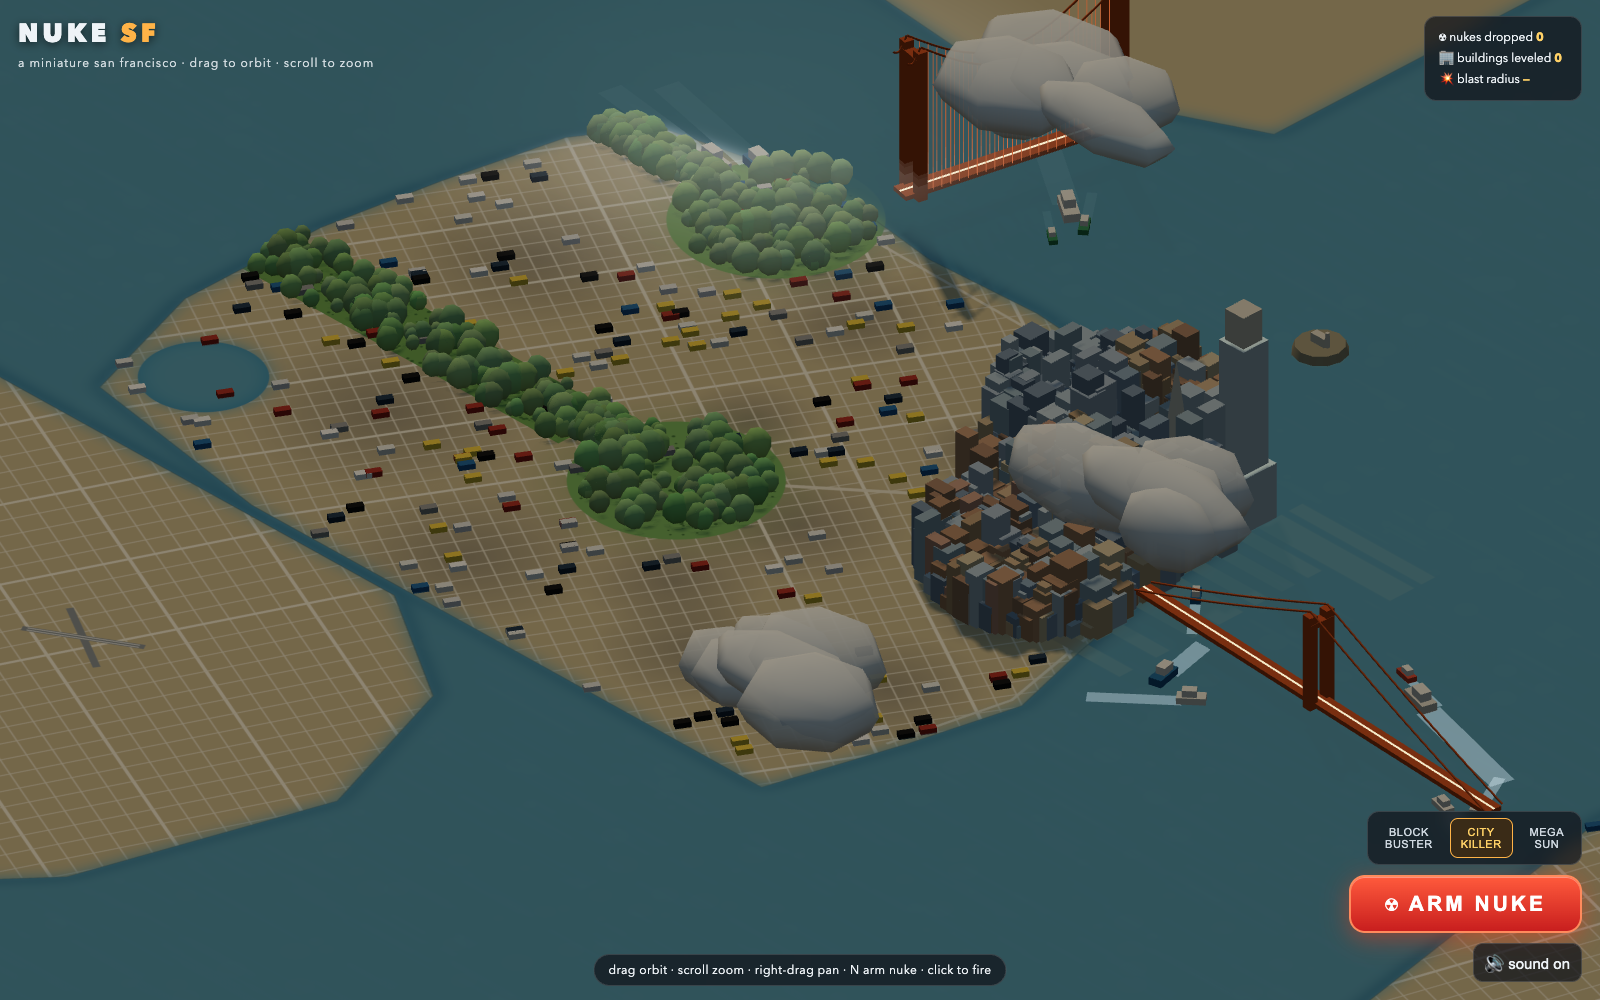
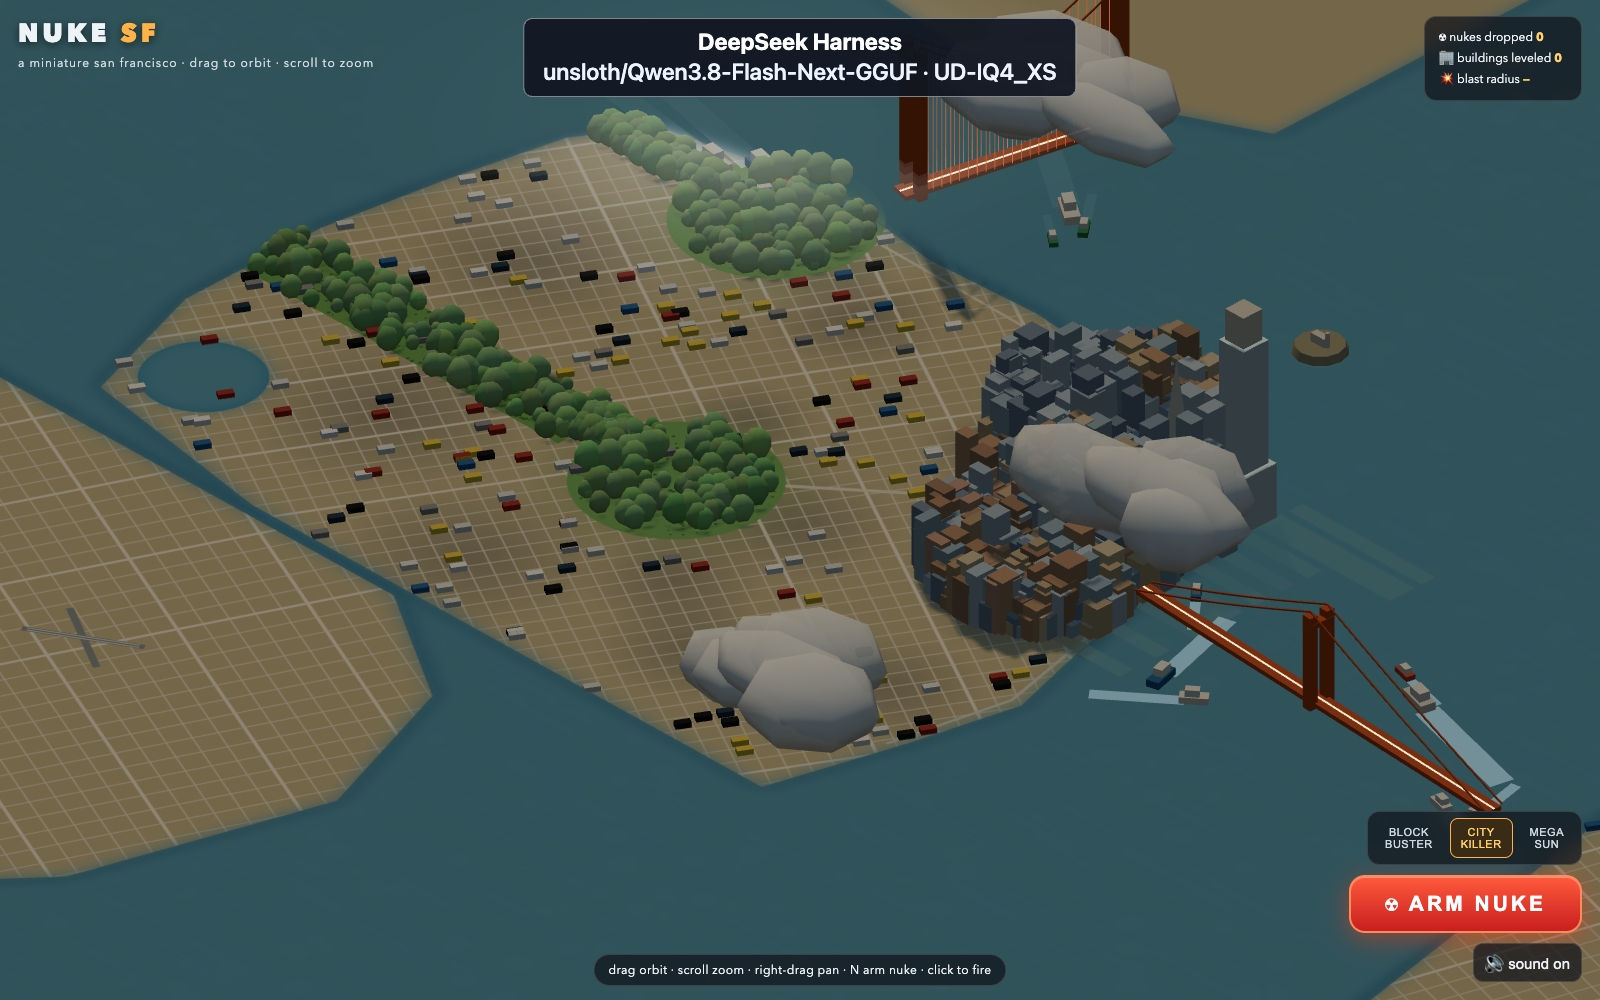
Show a watermarked screenshot for each harness and model

diff --git a/index.html b/index.html
@@ -1,16 +1,28 @@
 <!doctype html>
 <html lang="en"><head><meta charset="utf-8"><meta name="viewport" content="width=device-width,initial-scale=1"><title>Nuke SF Bench</title>
 <style>
-*{box-sizing:border-box}body{margin:0;background:#f6f7f9;color:#181c25;font:16px/1.5 system-ui,sans-serif}main{max-width:1100px;margin:auto;padding:22px clamp(16px,4vw,42px) 60px}h1,h2,h3,p,figure{margin:0}h1{font-size:clamp(28px,3.5vw,42px);letter-spacing:-.045em}h2{font-size:22px;letter-spacing:-.025em}h3{font-size:16px}.games,.refs{display:grid;grid-template-columns:repeat(2,minmax(0,1fr));gap:16px}.games{margin-top:16px}.games article{border:1px solid #ccd2dc;background:white}.games img{display:block;width:100%;height:auto}.game-info{padding:12px 16px}.play-links{display:flex;flex-wrap:wrap;gap:8px 20px;margin:6px 0}.play-links a{font-weight:650}.note,figcaption{color:#475266;font-size:14px}.download{display:inline-block;margin-top:4px;font-size:14px}a{color:#174ea6;text-underline-offset:3px}a:focus-visible{outline:3px solid #1f6ad1;outline-offset:2px}section{margin-top:32px}section>h2{margin-bottom:8px}.scroll{overflow:auto;margin:12px 0}table{border-collapse:collapse;background:white;width:100%;font-variant-numeric:tabular-nums}th,td{text-align:left;padding:9px 12px;border-bottom:1px solid #d9dfe7;white-space:nowrap}thead{font-size:13px;color:#475266}td.num,th.num{text-align:right}.detail{background:#eaf0f9;border-left:3px solid #5374ad;padding:12px 16px;margin:12px 0}.detail p{margin-top:4px}.detail,.prompt{max-width:82ch}.prompt{white-space:pre-wrap;font:inherit;border-left:2px solid #aab5c6;margin:8px 0 16px;padding:4px 14px}.refs{max-width:680px}.refs img{display:block;height:185px;width:100%;object-fit:contain;background:#e8ebf0}.refs figcaption{padding-top:5px}@media(max-width:600px){.games{grid-template-columns:1fr}.refs img{height:130px}th,td{padding:8px}main{padding-top:16px}}
-</style></head><body><main><h1>Nuke SF Bench</h1><div class="games"><article><a href="./deepseek-inkling/"><img width="1600" height="1000" src="screenshots/deepseek-inkling.png" alt="Inkling 2 Mini city built with DeepSeek Harness"></a>
-    <div class="game-info"><h2>Inkling 2 Mini</h2>
-    <div class="play-links"><a href="./deepseek-inkling/" aria-label="Play Inkling 2 Mini built with DeepSeek Harness">Play DeepSeek Harness</a>
-    <a href="./omp-inkling/" aria-label="Play Inkling 2 Mini built with OMP">Play OMP</a></div>
-    <a class="download" href="screenshots/deepseek-inkling.png" download>Download DeepSeek screenshot</a></div></article><article><a href="./deepseek-flash-next/"><img width="1600" height="1000" src="screenshots/deepseek-flash-next.png" alt="Qwen3.8 Flash Next city built with DeepSeek Harness"></a>
-    <div class="game-info"><h2>Qwen3.8 Flash Next</h2>
-    <div class="play-links"><a href="./deepseek-flash-next/" aria-label="Play Qwen3.8 Flash Next built with DeepSeek Harness">Play DeepSeek Harness</a>
-    <a href="./omp-flash-next/" aria-label="Play Qwen3.8 Flash Next built with OMP">Play OMP</a></div>
-    <a class="download" href="screenshots/deepseek-flash-next.png" download>Download DeepSeek screenshot</a></div></article></div>
+*{box-sizing:border-box}body{margin:0;background:#f6f7f9;color:#181c25;font:16px/1.5 system-ui,sans-serif}main{max-width:1100px;margin:auto;padding:22px clamp(16px,4vw,42px) 60px}h1,h2,h3,p,figure{margin:0}h1{font-size:clamp(28px,3.5vw,42px);letter-spacing:-.045em}h2{font-size:22px;letter-spacing:-.025em}h3{font-size:16px}.games,.refs{display:grid;grid-template-columns:repeat(2,minmax(0,1fr));gap:16px}.games{margin-top:16px}.games article{border:1px solid #ccd2dc;background:white}.games img{display:block;width:100%;height:auto}.game-info{padding:12px 16px}.play-links{display:flex;flex-wrap:wrap;gap:8px 20px;margin:6px 0}.play-links a{font-weight:650}.note,figcaption{color:#475266;font-size:14px}.play-links .download{font-size:14px;font-weight:400;align-self:center}a{color:#174ea6;text-underline-offset:3px}a:focus-visible{outline:3px solid #1f6ad1;outline-offset:2px}section{margin-top:32px}section>h2{margin-bottom:8px}.scroll{overflow:auto;margin:12px 0}table{border-collapse:collapse;background:white;width:100%;font-variant-numeric:tabular-nums}th,td{text-align:left;padding:9px 12px;border-bottom:1px solid #d9dfe7;white-space:nowrap}thead{font-size:13px;color:#475266}td.num,th.num{text-align:right}.detail{background:#eaf0f9;border-left:3px solid #5374ad;padding:12px 16px;margin:12px 0}.detail p{margin-top:4px}.detail,.prompt{max-width:82ch}.prompt{white-space:pre-wrap;font:inherit;border-left:2px solid #aab5c6;margin:8px 0 16px;padding:4px 14px}.refs{max-width:680px}.refs img{display:block;height:185px;width:100%;object-fit:contain;background:#e8ebf0}.refs figcaption{padding-top:5px}@media(max-width:600px){.games{grid-template-columns:1fr}.refs img{height:130px}th,td{padding:8px}main{padding-top:16px}}
+</style></head><body><main><h1>Nuke SF Bench</h1><div class="games"><article>
+    <a href="./deepseek-inkling/" aria-label="Play Inkling 2 Mini built with DeepSeek Harness"><img width="1600" height="1000" src="screenshots/deepseek-inkling.png" alt="Inkling 2 Mini city built with DeepSeek Harness"></a>
+    <div class="game-info"><h2>Inkling 2 Mini</h2><div class="play-links">
+    <a href="./deepseek-inkling/">Play DeepSeek Harness</a>
+    <a class="download" href="screenshots/deepseek-inkling.png" aria-label="Download Inkling 2 Mini screenshot for DeepSeek Harness" download>Download PNG</a>
+    </div></div></article><article>
+    <a href="./omp-inkling/" aria-label="Play Inkling 2 Mini built with OMP"><img width="1600" height="1000" src="screenshots/omp-inkling.png" alt="Inkling 2 Mini city built with OMP"></a>
+    <div class="game-info"><h2>Inkling 2 Mini</h2><div class="play-links">
+    <a href="./omp-inkling/">Play OMP</a>
+    <a class="download" href="screenshots/omp-inkling.png" aria-label="Download Inkling 2 Mini screenshot for OMP" download>Download PNG</a>
+    </div></div></article><article>
+    <a href="./deepseek-flash-next/" aria-label="Play Qwen3.8 Flash Next built with DeepSeek Harness"><img width="1600" height="1000" src="screenshots/deepseek-flash-next.png" alt="Qwen3.8 Flash Next city built with DeepSeek Harness"></a>
+    <div class="game-info"><h2>Qwen3.8 Flash Next</h2><div class="play-links">
+    <a href="./deepseek-flash-next/">Play DeepSeek Harness</a>
+    <a class="download" href="screenshots/deepseek-flash-next.png" aria-label="Download Qwen3.8 Flash Next screenshot for DeepSeek Harness" download>Download PNG</a>
+    </div></div></article><article>
+    <a href="./omp-flash-next/" aria-label="Play Qwen3.8 Flash Next built with OMP"><img width="1600" height="1000" src="screenshots/omp-flash-next.png" alt="Qwen3.8 Flash Next city built with OMP"></a>
+    <div class="game-info"><h2>Qwen3.8 Flash Next</h2><div class="play-links">
+    <a href="./omp-flash-next/">Play OMP</a>
+    <a class="download" href="screenshots/omp-flash-next.png" aria-label="Download Qwen3.8 Flash Next screenshot for OMP" download>Download PNG</a>
+    </div></div></article></div>
 <section><h2>Harness benchmarks</h2><p>Single RTX 3090 at 220 W · 196,608-token context · high reasoning effort.</p>
 <div class="scroll"><table><thead><tr><th>Model</th><th>Harness</th><th>Fresh build</th><th class="num">Calls</th><th class="num">Output tokens</th><th class="num">Active tok/s</th></tr></thead>
 <tbody><tr><th scope="row">Inkling 2 Mini</th><td>OMP</td><td>20m 42s</td><td class="num">64</td><td class="num">90,327</td><td class="num">115.9</td></tr>
